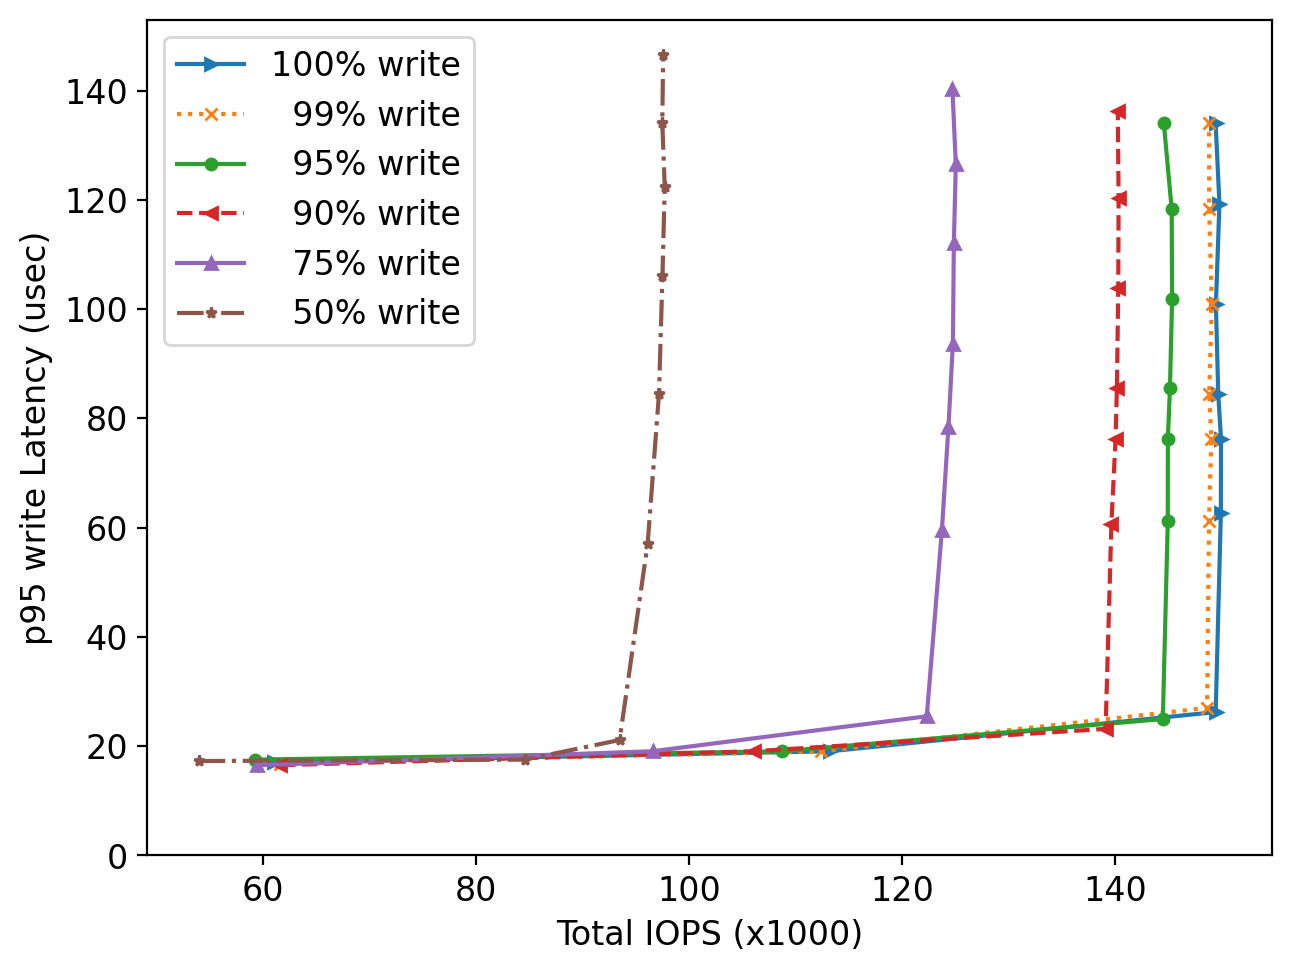
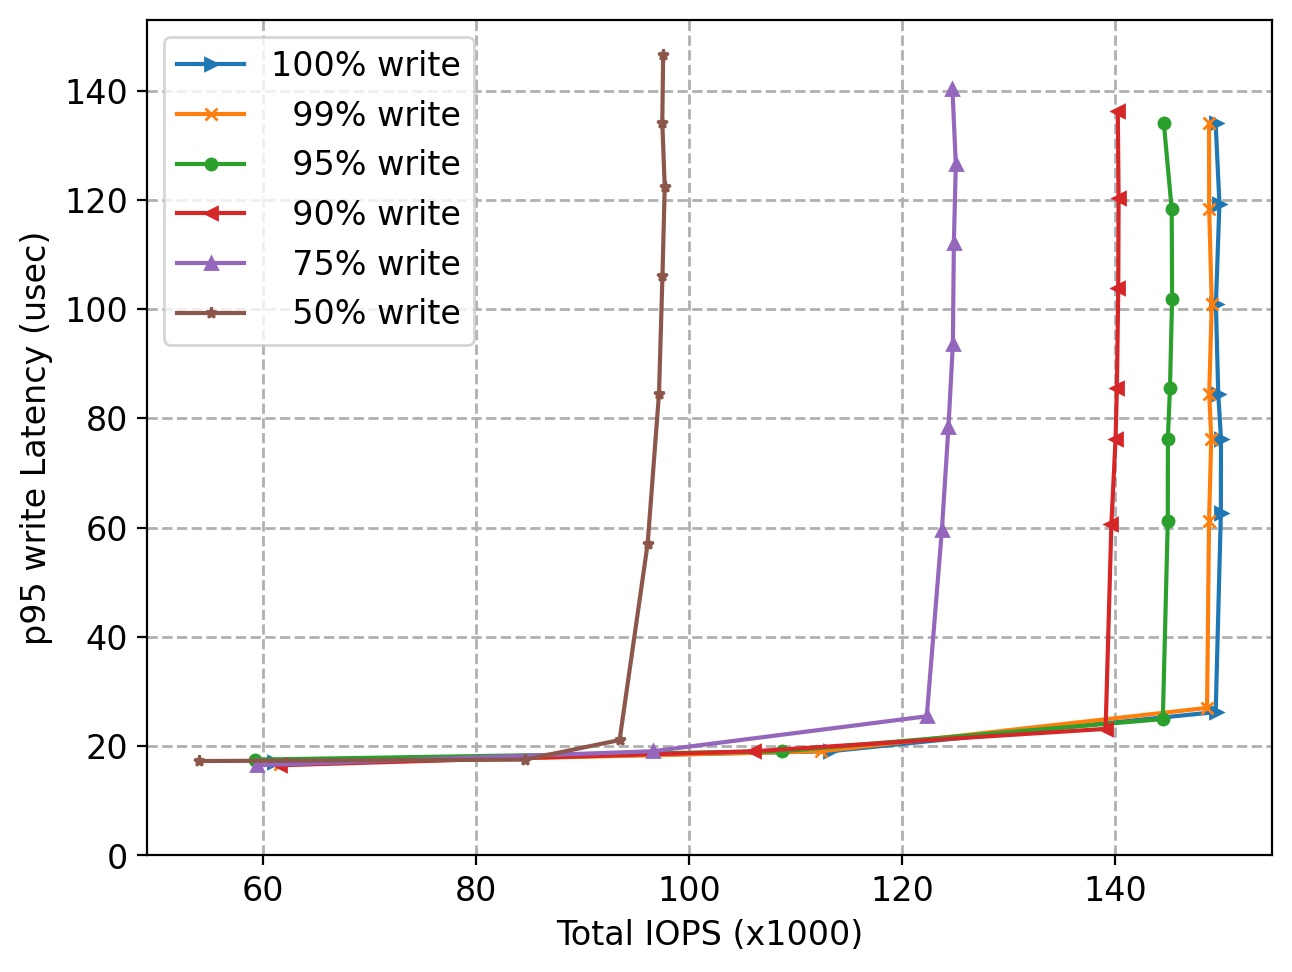
Plot reformat

diff --git a/loaded-write/plot.py b/loaded-write/plot.py
@@ -92,15 +92,15 @@ if __name__ == "__main__":
 
     fig, ax = plt.subplots()
 
-    ax.plot(write100_iops, write100, markersize = 4, marker = '>', linestyle = 'solid', label="100% write")
-    ax.plot(write99_iops, write99, markersize = 4, marker = 'x', linestyle = 'dotted', label="  99% write")
-    ax.plot(write95_iops, write95, markersize = 4, marker = 'o', linestyle = 'solid', label="  95% write")
-    ax.plot(write90_iops, write90, markersize = 4, marker = '<', linestyle = '--', label="  90% write")
-    ax.plot(write75_iops, write75, markersize = 4, marker = '^', linestyle = 'solid', label="  75% write")
-    ax.plot(write50_iops, write50, markersize = 4, marker = '*', linestyle = '-.', label="  50% write")
+    ax.plot(write100_iops, write100, markersize = 4, marker = '>', label="100% write")
+    ax.plot(write99_iops, write99, markersize = 4, marker = 'x', label="  99% write")
+    ax.plot(write95_iops, write95, markersize = 4, marker = 'o', label="  95% write")
+    ax.plot(write90_iops, write90, markersize = 4, marker = '<', label="  90% write")
+    ax.plot(write75_iops, write75, markersize = 4, marker = '^',  label="  75% write")
+    ax.plot(write50_iops, write50, markersize = 4, marker = '*', label="  50% write")
 
     fig.tight_layout()
-    # ax.grid(which='major', linestyle='solid', linewidth='1')
+    ax.grid(which='major', linestyle='dashed', linewidth='1')
     ax.set_axisbelow(True)
     # ax.legend(loc='best', handles=handles)
     ax.legend(loc='best')
